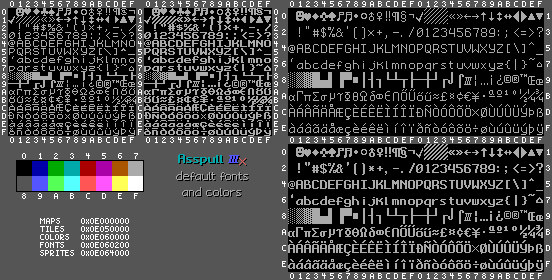
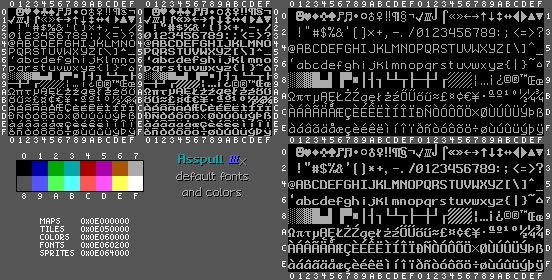
Add Polish glyphs, rearrange a bit

diff --git a/helloworld/main.c b/helloworld/main.c
@@ -1,10 +1,194 @@
 #include "../ass.h"
 IBios* interface;
 
+/*
+#include <limits.h>
+
+#define FRACBITS 16
+#define FRACUNIT (1 << FRACBITS)
+typedef int fixed_t;
+
+int abs(int a)
+{
+	return a < 0 ? -a : a;
+}
+
+fixed_t FixedMul(fixed_t a, fixed_t b)
+{
+	return ((long long) a * (long long) b) >> FRACBITS;
+}
+
+fixed_t FixedDiv(fixed_t a, fixed_t b)
+{
+	if ((abs(a) >> 14) >= abs(b))
+	return (a ^ b) < 0 ? INT_MIN : INT_MAX;
+
+	long long c;
+	c = ((long long)a <<16 ) / ((long long)b);
+	return (fixed_t)c;
+}
+
+inline fixed_t Fixed(int a, int b)
+{
+	fixed_t c = (a << FRACBITS) + ((b * FRACUNIT) / 100);
+	return c;
+}
+
+void printfixnum(fixed_t a)
+{
+	printf("%d.%d", a >> FRACBITS, ((a % FRACUNIT) * 100) / FRACUNIT);
+}
+*/
+
 int main(void)
 {
 	MISC->SetTextMode(SMODE_240 | SMODE_BOLD);
 	TEXT->SetTextColor(1, 7);
 	TEXT->ClearScreen();
 	printf("Hello, world!\n");
+
+/*
+	TEXT->SetTextColor(1, 7);
+	printf("\nFRACUNIT is %d\n", FRACUNIT);
+	fixed_t f1 = Fixed(12, 50); //(12 * FRACUNIT) + (FRACUNIT >> 1);
+	fixed_t f2 = Fixed(2, 0); //2 * FRACUNIT;
+	printf("%d -> ", f1);
+	printfixnum(f1);
+	printf("\n");
+	printf("%d -> ", f2);
+	printfixnum(f2);
+	printf("\n");
+	fixed_t f3 = FixedDiv(f1, f2);
+	printf("Divide and... %d -> ", f3);
+	printfixnum(f3);
+	printf("\n");
+	f3 = FixedMul(f1, f2);
+	printf("Multiply and... %d -> ", f3);
+	printfixnum(f3);
+	printf("\n");
+*/
+
+	TEXT->SetTextColor(1, 15);
+	printf("\nA\x11\xD7 BIOS/Interface\n");
+	TEXT->SetTextColor(1, 7);
+	printf("Version: %d.%d\t\t", (interface->biosVersion >> 8) & 0xFF, (interface->biosVersion >> 0) & 0xFF);
+	printf("Extensions: %d\n", interface->extensions);
+	printf("Printer: 0x%08X\t", interface->LinePrinter);
+	printf("Disk drives: %d\n", interface->io.numDrives);
+
+	TEXT->SetTextColor(1, 15);
+	printf("\nSizes:\n");
+	TEXT->SetTextColor(1, 7);
+	printf("char        %d\t", sizeof(char));
+	printf("short       %d\n", sizeof(short));
+	printf("int         %d\t", sizeof(int));
+	printf("long        %d\n", sizeof(long));
+	printf("void *      %d\t", sizeof(void*));
+	printf("long long   %d\n", sizeof(long long));
+	printf("time_t      %d\n", sizeof(time_t));
+
+	TEXT->SetTextColor(1, 15);
+	printf("\nDefines:\n");
+	TEXT->SetTextColor(1, 7);
+#ifdef __STDC__
+	printf("__STDC__\n");
+	#ifdef __STDC_VERSION__
+		printf("__STDC_VERSION__: %d ("
+		#if __STDC_VERSION__ >= 201710L
+			"C18"
+		#elif __STDC_VERSION__ >= 201112L
+			"C11"
+		#elif __STDC_VERSION__ >= 199901L
+			"C99"
+		#elif __STDC_VERSION__ >= 199409L
+			"C94"
+		#else
+			"???"
+		#endif
+		")\n", __STDC_VERSION__);
+	#endif
+#endif
+#ifdef __cplusplus
+	printf("__cplusplus: %d ("
+	#if __cplusplus  >= 201703L
+		"C++17"
+	#elif __cplusplus  >= 201402L
+		"C++14"
+	#elif __cplusplus  >= 201103L
+		"C++11"
+	#elif __cplusplus  >= 199711L
+		"C++98"
+	#else
+		"???"
+	#endif
+	")\n", __cplusplus);
+#else
+	printf("No __cplusplus\n");
+#endif
+#ifdef _POSIX_VERSION
+	printf("_POSIX_VERSION: %d ("
+	#if _POSIX_VERSION  >= 200809L
+		"POSIX.1-2008"
+	#elif _POSIX_VERSION  >= 200112L
+		"POSIX.1-2001"
+	#elif _POSIX_VERSION  >= 199506L
+		"POSIX.1-1996"
+	#elif _POSIX_VERSION  >= 199309L
+		"POSIX.1-1993"
+	#elif _POSIX_VERSION  >= 199009L
+		"POSIX.1-1990"
+	#elif _POSIX_VERSION  >= 198808L
+		"POSIX.1-1988"
+	#else
+		"???"
+	#endif
+	")\n", _POSIX_VERSION);
+#else
+	printf("No _POSIX_VERSION\n");
+#endif
+	printf("Compiler: "
+#ifdef __clang__
+	"clang\n"
+#elif defined(__GNUC__)
+	"gcc"
+	#ifdef __GNUC_MINOR__
+		" %d.%d.%d\n", __GNUC__, __GNUC_MINOR__, __GNUC_PATCHLEVEL__
+	#endif
+#else
+	"unknown\n"
+#endif
+	);
+	printf("Architecture: "
+#ifdef __m68k__
+	"Motorola "
+	#ifdef __mc68040__
+		"68040"
+	#elif defined __mc68030__
+		"68030"
+	#elif defined __mc68020__
+		"68020"
+	#elif defined __mc68010__
+		"68010"
+	#elif defined __mc68000__
+		"68000"
+	#endif
+#else
+	"unknown"
+#endif
+	"\n"
+	);
+
+	TEXT->SetTextColor(1, 15);
+	printf("\nLocale\n");
+	TEXT->SetTextColor(1, 7);
+	printf("ID code: \"%s\". ", MISC->GetLocaleStr(LC_CODE, 0));
+	printf("Monday: \"%s\"\n", MISC->GetLocaleStr(LC_DAYF, 1));
+	printf("January: \"%s\". ", MISC->GetLocaleStr(LC_MONF, 0));
+	printf("June: \"%s\"\n", MISC->GetLocaleStr(LC_MONF, 5));
+	printf("Short date: \"%s\". ", MISC->GetLocaleStr(LC_DATES, 0));
+	printf("Long date: \"%s\"\n", MISC->GetLocaleStr(LC_DATEL, 0));
+	printf("Short time: \"%s\"\n", MISC->GetLocaleStr(LC_TIMES, 0));
+	printf("Long time: \"%s\"\n", MISC->GetLocaleStr(LC_TIMEL, 0));
+	printf("Separators: '%c' and '%c'. ", interface->locale.thousands, interface->locale.decimals);
+	printf("Currency: \"%s\"\n", MISC->GetLocaleStr(LC_CURR, 0));
 }

diff --git a/bios/main.c b/bios/main.c
@@ -60,7 +60,7 @@ int main(void)
 	int blinker = 0;
 
 	sprintf(biosVer, "BIOS v%d.%d", (interface->biosVersion >> 8) & 0xFF, (interface->biosVersion >> 0) & 0xFF);
-	const char banner[] = "\x93\x90\x90\x90\x90\x90\x90\x90\x90\x90\x90\x90\x90\x8B\n\x89 ASSPULL \x96\xD7 \x89\n\x8C\x90\x90\x90\x90\x90\x90\x90\x90\x90\x90\x90\x90\x92";
+	const char banner[] = "\x93\x90\x90\x90\x90\x90\x90\x90\x90\x90\x90\x90\x90\x8B\n\x89 ASSPULL \x11\xD7 \x89\n\x8C\x90\x90\x90\x90\x90\x90\x90\x90\x90\x90\x90\x90\x92";
 
 	DmaCopy(TEXTFONT, (int8_t*)&fontTiles, 0xC00, DMA_INT);
 	ResetPalette();
@@ -72,7 +72,7 @@ int main(void)
 
 	REG_CARET = 80 + 2;
 	interface->io.attribs = 0x0B;
-	Write("Asspull \x96\xD7 %s\n\n", biosVer);
+	Write("Asspull \x11\xD7 %s\n\n", biosVer);
 	((char*)TEXTMAP)[17 + 160 + 4] = 0x0C;
 	((char*)TEXTMAP)[19 + 160 + 4] = 0x09;
 	interface->io.attribs = 0x07;

diff --git a/navigator/main.c b/navigator/main.c
@@ -250,10 +250,10 @@ void InfoPanel(int panel, char* workPath, char* filename)
 		else
 		{
 			char* ext = strrchr((const char*)filename, '.') + 1;
-			if (!strncmp(ext, "APP", 3)) strcpy(t[i++], "A\x96\xD7 Application");
+			if (!strncmp(ext, "APP", 3)) strcpy(t[i++], "A\x11\xD7 Application");
 			else if (!strncmp(ext, "API", 3))
 			{
-				strcpy(t[i++], "A\x96\xD7 Image");
+				strcpy(t[i++], "A\x11\xD7 Image");
 				i++;
 				TImageFile imgHeader;
 				FILE imgFile;

diff --git a/test/main.c b/test/main.c
@@ -122,7 +122,7 @@ int main(void)
 		TEXT->SetTextColor(0, 1);
 		TEXT->Write("Asspull ");
 		TEXT->SetTextColor(0, 9);
-		TEXT->WriteChar('\x96');
+		TEXT->WriteChar('\x11');
 		TEXT->SetTextColor(0, 12);
 		TEXT->WriteChar('\xD7');
 		TEXT->SetTextColor(0, 7);
